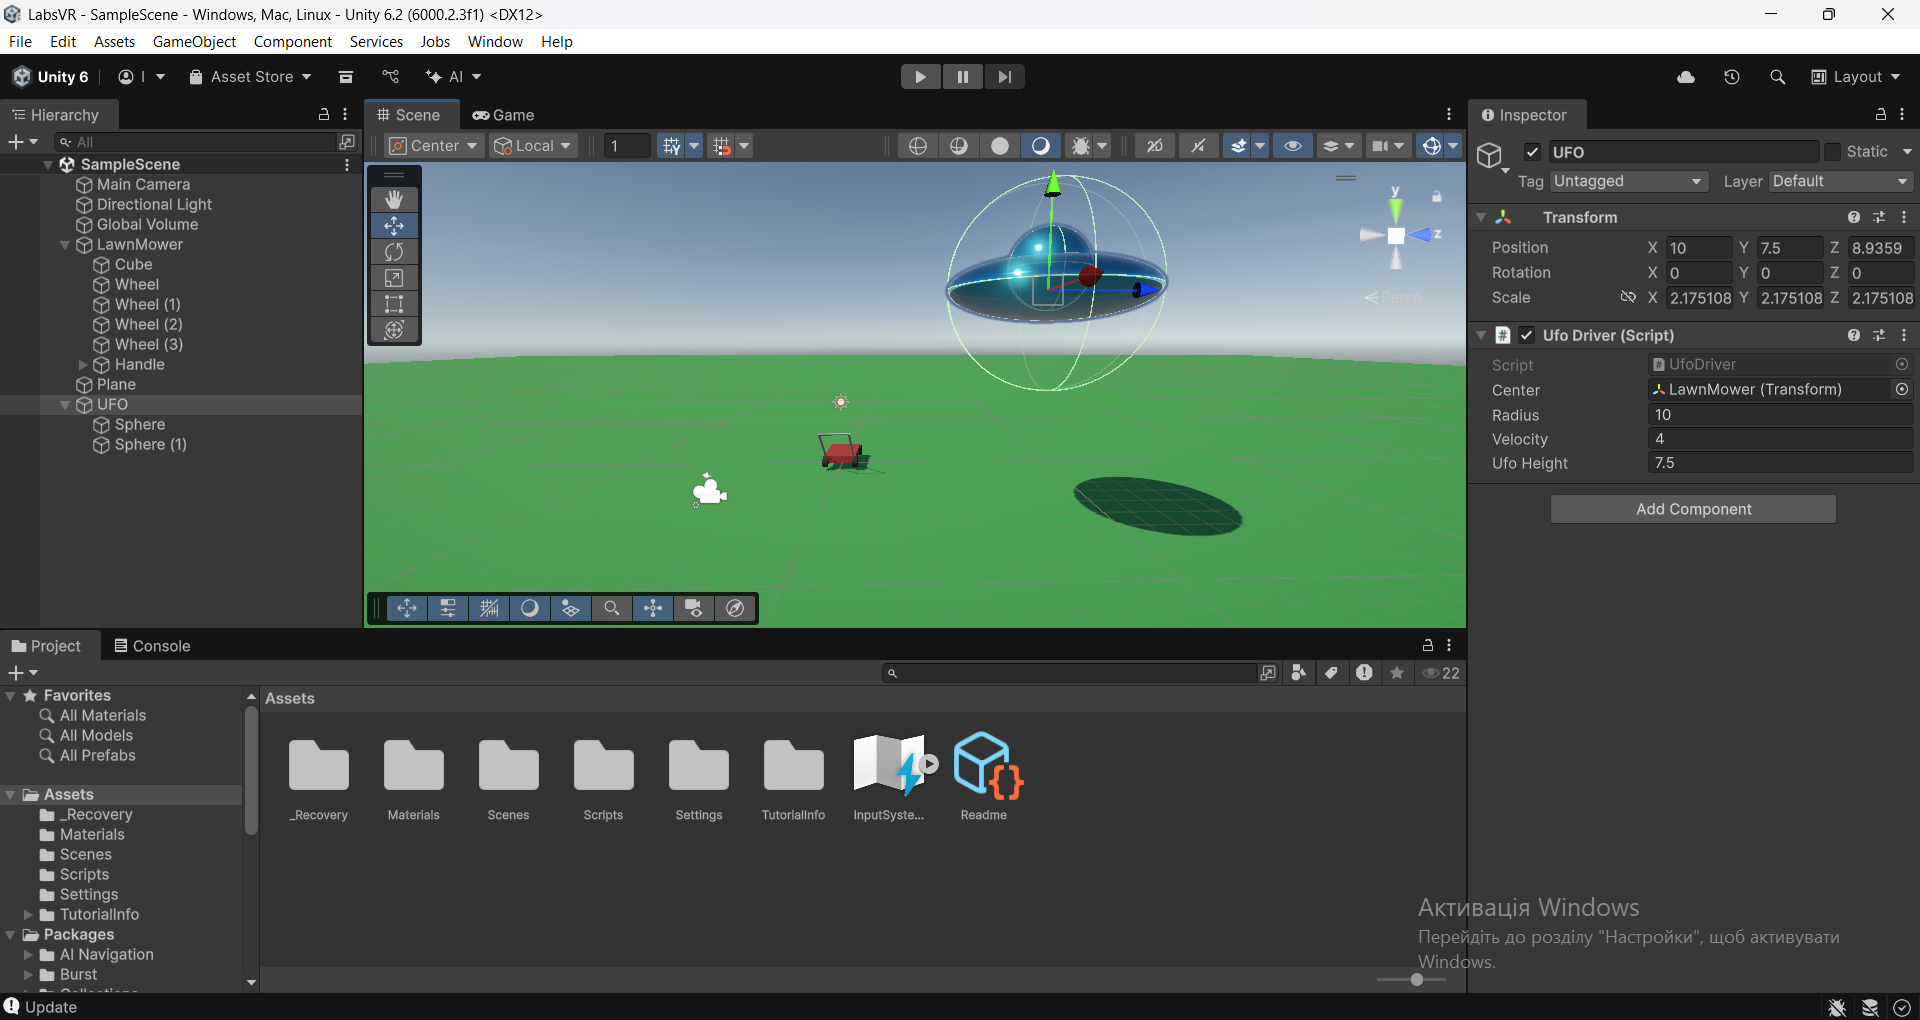
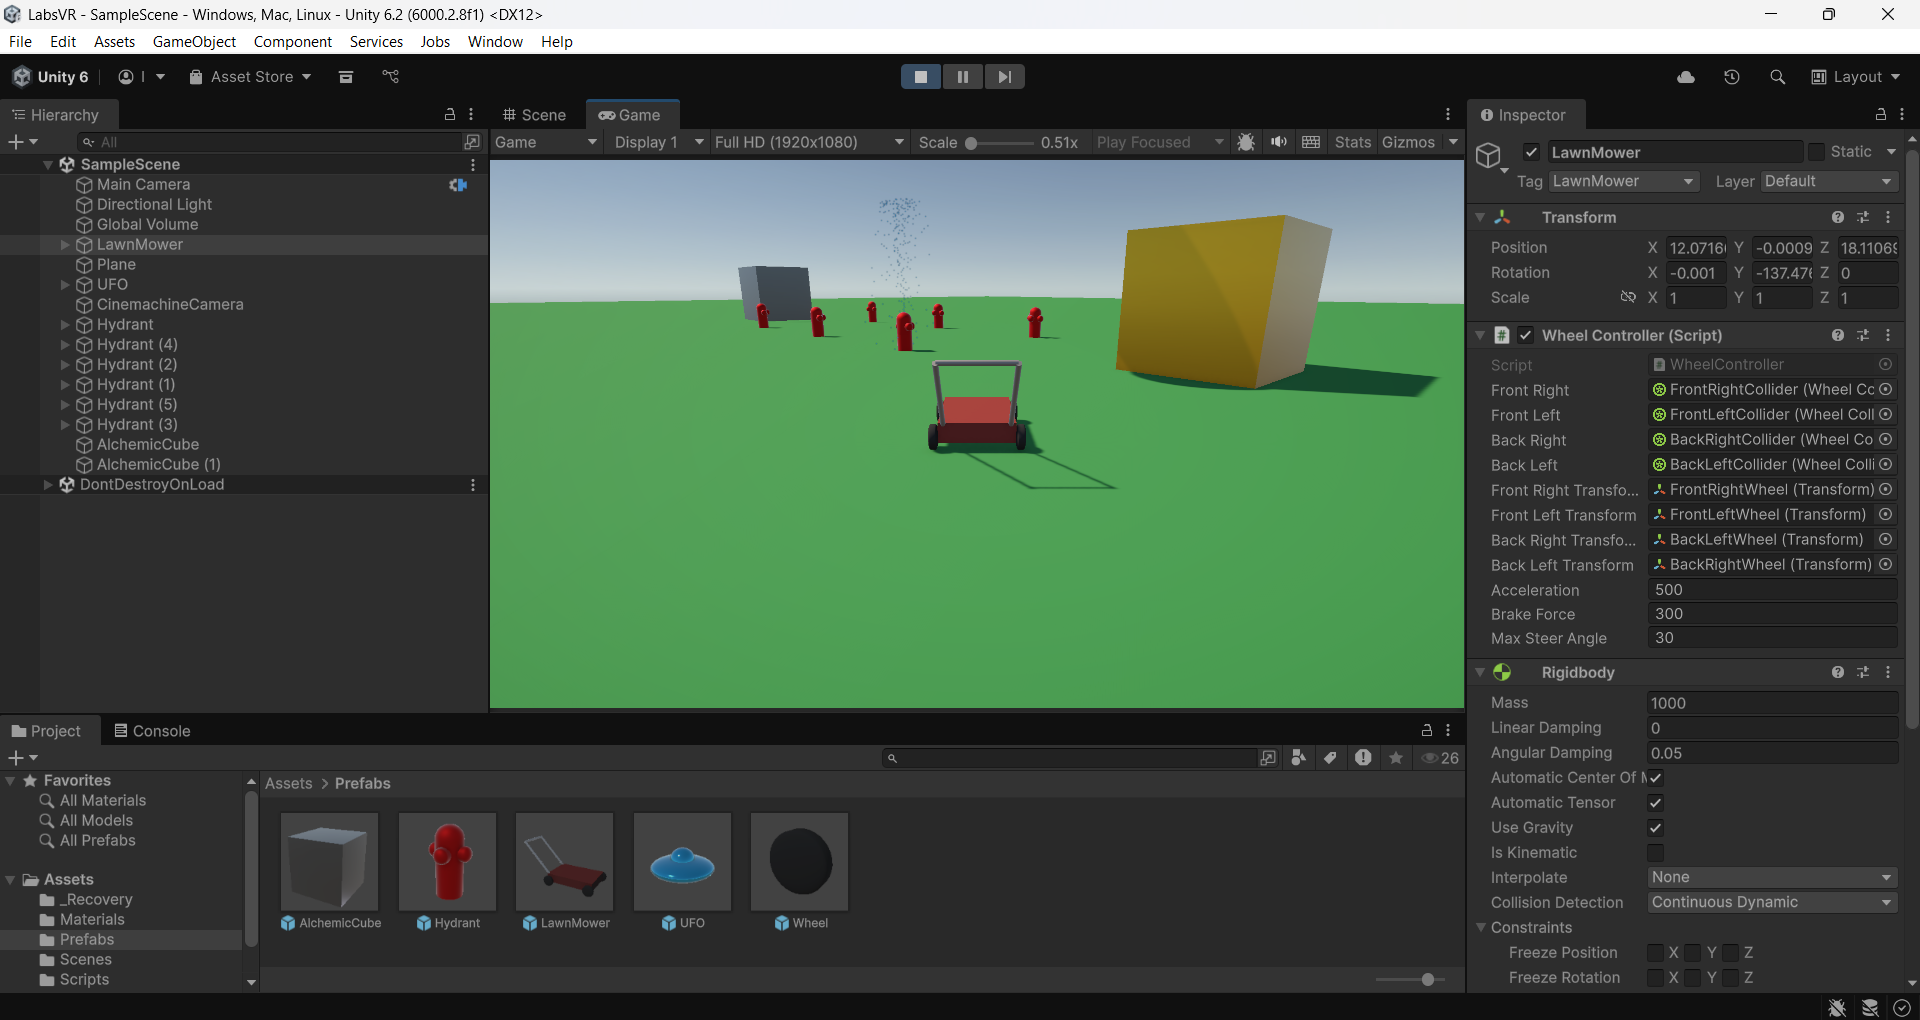
update readme

diff --git a/README.md b/README.md
@@ -1,13 +1,19 @@
-# Лабораторна робота №1
+# Лабораторна робота №2
 ІП-23 Гончаренко Іван
 
 ## Завдання
-1. Установка Unity Hub та Unity
-2. Cтворення проекту.
-3. Створити просту сцену з 3D-об’єктами та світлом. 
-4. Налаштувати Unity та MS Visual Studio Code або MS Visual Studio Community 2022
-5. Написати скрипти для анімації об’єкта.
-6. Реалізувати керування об’єктом з клавіатури
+Завдання
+
+1. Добавити та налаштувати камеру (CinemachineCamera)
+
+2. Реалізувати повноцінне переміщення ігрового об’єкта (вправо-вліво, вверх-вниз в залежності від вашої сцени, але має бути переміщення по двом координатам, або переміщення та повороти)
+
+3. Реалізувати зіткнення з об’єктами
+
+4. Добавити теги та реалізувати різні дії в залежності від тегів
+
+5. Створити свій, як мінімум один Prefab об’єкт та розташувати його на сцені
+
 
 ## Опис проекту
 
@@ -15,7 +21,19 @@
 
 Водночас об'єкти LawnMower та UFO також складаються з більш примітивних об'єктів таких як куб, циліндр та сфера
 
-За допомогою клавіш "W" та "S" або стрілочок вверх/вниз користувач може переміщати газонокосарку вперед або назад віповідно. Об'єкт НЛО обертається навколо газонокосарки автоматично
+Камера сцени налаштована на стеження за об'єктом LawnMower за допомогою CinemachineCamera
+
+За допомогою клавіш "W" та "S" або стрілочок вверх/вниз користувач може переміщати газонокосарку вперед або назад віповідно. За допомогою стрілок "A" та "D" користувач може повертати газонокосарку (LawnMower). Об'єкт НЛО обертається навколо газонокосарки автоматично
+
+При зіткненні з пожежним гідрантом буде виливатися вода, а при зіткненні з кубом він змінить колір на золотий
+
+Проект містить 5 Prefab-об'єктів, а саме:
+
++ “алхімічний” куб (AlchemicCube)
++ пожежний гідрант (Hydrant)
++ газонокосарка (LawnMower)
++ НЛО (UFO)
++ колесо газонокосарки (Wheel)
 
 ## Скріншот проекту
 
@@ -25,10 +43,18 @@
 
 Основний код знаходиться в директорії [Assets/Scripts](Assets/Scripts). 
 
-### [Driver.cs](Assets/Scripts/Driver.cs)
+### [WheelController.cs](Assets/Scripts/Driver.cs)
 
-Клас, призначений для переміщення газонокосарки
+Клас, призначений для переміщення газонокосарки за допомогою компонентів WheelCollider
 
 ### [UfoDriver.cs](Assets/Scripts/UfoDriver.cs)
 
 Клас, призначений для переміщення НЛО
+
+### [OnHydrantHit.cs](Assets/Scripts/OnHydrantHit.cs)
+
+Клас, призначений для обробки зіткнення з гідрантом
+
+### [OnCubeHit.cs](Assets/Scripts/OnCubeHit.cs)
+
+Клас, призначений для обробки зіткнення з "алхімічним" кубом
